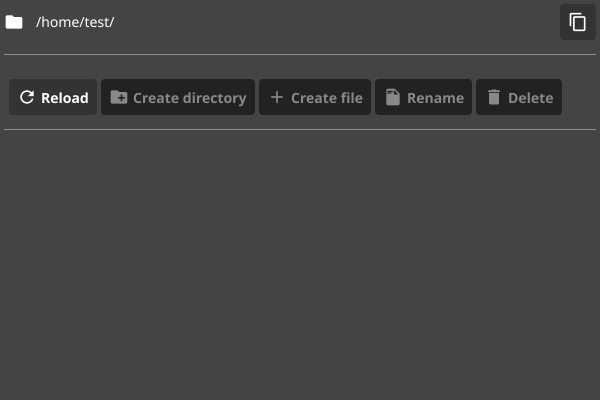
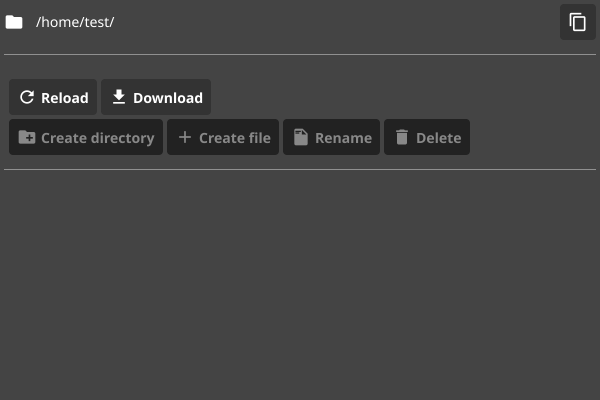
feat(download): download a directory (#126)

Changed region(s): [[0.0, 0.18, 0.96, 0.39]]

diff --git a/internal/ui/views/widget/directory_details.go b/internal/ui/views/widget/directory_details.go
@@ -29,12 +29,13 @@ type DirectoryDetails struct {
 	pathLabel        *widget.Label
 	renameErrContent *renameFailedPanel
 
-	toolbar            *widget.Toolbar
+	toolbar            *fyne.Container
 	newDirectoryAction *ToolbarButton
 	createFileAction   *ToolbarButton
 	renameAction       *ToolbarButton
 	reloadAction       *ToolbarButton
 	deleteAction       *ToolbarButton
+	downloadAction     *ToolbarButton
 	loadingBar         *widget.ProgressBarInfinite
 
 	dropZone *DropZone
@@ -52,13 +53,13 @@ func NewDirectoryDetails(appCtx appcontext.AppContext) *DirectoryDetails {
 	createFileAction := NewToolbarButton("Create file", theme.ContentAddIcon(), func() {})
 	renameAction := NewToolbarButton("Rename", theme.FileTextIcon(), func() {})
 	deleteAction := NewToolbarButton("Delete", theme.DeleteIcon(), func() {})
-	toolbar := widget.NewToolbar(
-		reloadAction,
-		createDirAction,
-		createFileAction,
-		renameAction,
-		deleteAction,
+	downloadAction := NewToolbarButton("Download", theme.DownloadIcon(), func() {})
+
+	toolbar := container.NewVBox(
+		widget.NewToolbar(reloadAction, downloadAction),
+		widget.NewToolbar(createDirAction, createFileAction, renameAction, deleteAction),
 	)
+
 	loadingBar := widget.NewProgressBarInfinite()
 	loadingBar.Hide()
 
@@ -71,6 +72,7 @@ func NewDirectoryDetails(appCtx appcontext.AppContext) *DirectoryDetails {
 		renameAction:       renameAction,
 		reloadAction:       reloadAction,
 		deleteAction:       deleteAction,
+		downloadAction:     downloadAction,
 		loadingBar:         loadingBar,
 		renameErrContent:   newRenameFailedPanel(appCtx.Window()),
 		dropZone:           NewDropZone(dropZoneInitialText, appCtx.Window()),
@@ -158,6 +160,7 @@ func (w *DirectoryDetails) Select(dir *directory.Directory) {
 	w.renameAction.SetOnTapped(w.makeOnRename(vm, dir))
 	w.reloadAction.SetOnTapped(w.makeOnReload(vm, dir))
 	w.deleteAction.SetOnTapped(w.makeOnDelete(vm, dir))
+	w.downloadAction.SetOnTapped(w.makeOnDownload(vm, dir))
 
 	if dir.IsRoot() {
 		w.renameAction.Disable()
@@ -283,6 +286,17 @@ func (w *DirectoryDetails) makeOnUpload(vm viewmodel.ExplorerViewModel, dir *dir
 
 		selectDialog.SetLocation(vm.LastUploadLocation())
 		selectDialog.Show()
+	}
+}
+
+func (w *DirectoryDetails) makeOnDownload(vm viewmodel.ExplorerViewModel, dir *directory.Directory) func() {
+	return func() {
+		d := dialog.NewFolderOpen(func(uri fyne.ListableURI, err error) {
+			vm.DownloadDirectory(dir, uri.Path())
+		}, w.appCtx.Window())
+		d.SetConfirmText("Select")
+		d.SetTitleText(fmt.Sprintf("Select where to download '%s'", dir.Name()))
+		d.Show()
 	}
 }
 

diff --git a/internal/ui/viewmodel/explorer_viewmodel.go b/internal/ui/viewmodel/explorer_viewmodel.go
@@ -72,6 +72,8 @@ type ExplorerViewModel interface {
 	// DownloadFile downloads a file to the specified local destination
 	DownloadFile(f *directory.File, dest string)
 
+	DownloadDirectory(dir *directory.Directory, dest string)
+
 	PrepareUpload(uris []fyne.URI, dir *directory.Directory) error
 	DoUpload(localBasePath string, preview *directory.Preview, strategy directory.MaterializeStrategy)
 	UploadOne(localPath string, dir *directory.Directory, overwrite bool) error
@@ -150,10 +152,6 @@ func NewExplorerViewModel(
 		state:                  st,
 	}
 
-	if err := v.initializeTreeData(initialConnection); err != nil {
-		notifier.NotifyError(fmt.Errorf("error setting initial connection: %w", err))
-	}
-
 	st.Connection().Selected().AddListener(binding.NewDataListener(func() {
 		newSelected := u.SkipV(st.Connection().Selected().Get())
 		if newSelected == nil {
@@ -189,6 +187,8 @@ func NewExplorerViewModel(
 		On(event.Is(directory.UploadReadyType), v.handleUploadReady).
 		On(event.Is(directory.DeleteFailedType), v.handleDeleteDirectoryFailure).
 		On(event.Is(directory.DeleteSucceededType), v.handleDeleteDirectorySuccess).
+		On(event.Is(directory.DownloadSucceededType), v.handleDownloadSuccess).
+		On(event.Is(directory.DownloadFailedType), v.handleDownloadFailure).
 		ListenWithWorkers(3)
 
 	return v
@@ -346,6 +346,31 @@ func (v *explorerViewModelImpl) handleDownloadFileSuccess(evt event.Event) {
 
 func (v *explorerViewModelImpl) handleDownloadFileFailure(evt event.Event) {
 	pl := evt.Payload().(directory.DownloadFileFailed)
+	err := fmt.Errorf("error downloading file: %w", pl.Err)
+	v.notifier.NotifyError(err)
+	u.Skip(v.errorMessage.Set(err.Error()))
+}
+
+func (v *explorerViewModelImpl) DownloadDirectory(dir *directory.Directory, destParent string) {
+	v.bus.Publish(event.New(directory.DownloadTriggered{
+		Directory:      dir,
+		DestParentPath: destParent,
+	}))
+}
+
+func (v *explorerViewModelImpl) handleDownloadSuccess(evt event.Event) {
+	pl := evt.Payload().(directory.DownloadSucceeded)
+	if err := pl.Directory.Notify(evt); err != nil {
+		v.notifier.NotifyError(err)
+		u.Skip(v.errorMessage.Set(err.Error()))
+		return
+	}
+	u.Skip(v.infoMessage.Set(
+		fmt.Sprintf("Directory %s downloaded successfully", pl.Directory.Name())))
+}
+
+func (v *explorerViewModelImpl) handleDownloadFailure(evt event.Event) {
+	pl := evt.Payload().(directory.DownloadFailed)
 	err := fmt.Errorf("error downloading file: %w", pl.Err)
 	v.notifier.NotifyError(err)
 	u.Skip(v.errorMessage.Set(err.Error()))

diff --git a/internal/infrastructure/s3/handle_download.go b/internal/infrastructure/s3/handle_download.go
@@ -1,8 +1,10 @@
 package s3
 
 import (
+	"errors"
 	"fmt"
 	"os"
+	"path/filepath"
 
 	"github.com/thomas-marquis/it-happened/event"
 	"github.com/thomas-marquis/s3-box/internal/domain/directory"
@@ -37,4 +39,51 @@ func (h *EventHandler) handleDownloadFile(e event.Event) {
 	}
 
 	h.bus.Publish(e.NewFollowup(directory.DownloadFileSucceeded{File: pl.File}))
+}
+
+func (h *EventHandler) handleDownload(e event.Event) {
+	ctx := e.Context()
+	pl := e.Payload().(directory.DownloadTriggered)
+	dir := pl.Directory
+	destParent := pl.DestParentPath
+
+	handleError := func(err error) {
+		h.notifier.NotifyError(fmt.Errorf("failed downloading directory: %w", err))
+		h.bus.Publish(e.NewFollowup(directory.DownloadFailed{Directory: dir, Err: err}))
+	}
+
+	fi, err := os.Stat(destParent)
+	if err != nil {
+		handleError(fmt.Errorf("failed to stat destination directory: %w", err))
+		return
+	}
+	if !fi.IsDir() {
+		handleError(errors.New("destination must be a directory"))
+		return
+	}
+
+	destPath := filepath.Join(pl.DestParentPath, dir.Name())
+	fi, err = os.Stat(destPath)
+	if err == nil && fi.IsDir() {
+		handleError(fmt.Errorf("destination directory already exists"))
+		return
+	}
+
+	if err := os.MkdirAll(destPath, 0755); err != nil {
+		handleError(fmt.Errorf("failed to create destination directory: %w", err))
+		return
+	}
+
+	client, err := h.clientFactory.Get(ctx, dir.ConnectionID())
+	if err != nil {
+		handleError(err)
+		return
+	}
+
+	if err := client.DownloadDirectory(ctx, mapPathToSearchKey(dir.Path()), destPath); err != nil {
+		handleError(fmt.Errorf("failed downloading directory: %w", err))
+		return
+	}
+
+	h.bus.Publish(e.NewFollowup(directory.DownloadSucceeded{Directory: dir}))
 }

diff --git a/internal/infrastructure/s3/s3client/client.go b/internal/infrastructure/s3/s3client/client.go
@@ -21,6 +21,7 @@ type BaseAPI interface {
 	ListObjects(ctx context.Context, prefix string, recursive bool, opts ...Option) (ListObjectsResult, error)
 	ListObjectsWithCallback(ctx context.Context, prefix string, recursive bool, callback func(page *s3.ListObjectsV2Output) error, opts ...Option) error
 	Download(ctx context.Context, key string, writer io.WriterAt, opts ...Option) error
+	DownloadDirectory(ctx context.Context, keyPrefix, dest string, opts ...Option) error
 	Upload(ctx context.Context, key string, body io.Reader, opts ...Option) error
 	PutObjectTagging(ctx context.Context, key string, tags []s3types.Tag, opts ...Option) (*s3.PutObjectTaggingOutput, error)
 	GetObjectTagging(ctx context.Context, key string, opts ...Option) (*s3.GetObjectTaggingOutput, error)
@@ -147,6 +148,10 @@ func (c *clientImpl) GetObjectTagging(ctx context.Context, key string, opts ...O
 }
 func (c *clientImpl) PutObjectTagging(ctx context.Context, key string, tags []s3types.Tag, opts ...Option) (*s3.PutObjectTaggingOutput, error) {
 	return c.api.PutObjectTagging(ctx, key, tags, opts...)
+}
+
+func (c *clientImpl) DownloadDirectory(ctx context.Context, keyPrefix, dest string, opts ...Option) error {
+	return c.api.DownloadDirectory(ctx, keyPrefix, dest, opts...)
 }
 
 type Option func(any)

diff --git a/mocks/viewmodel/explorer_viewmodel.go b/mocks/viewmodel/explorer_viewmodel.go
@@ -129,6 +129,18 @@ func (mr *MockExplorerViewModelMockRecorder) DoUpload(localBasePath, preview, st
 	return mr.mock.ctrl.RecordCallWithMethodType(mr.mock, "DoUpload", reflect.TypeOf((*MockExplorerViewModel)(nil).DoUpload), localBasePath, preview, strategy)
 }
 
+// DownloadDirectory mocks base method.
+func (m *MockExplorerViewModel) DownloadDirectory(dir *directory.Directory, dest string) {
+	m.ctrl.T.Helper()
+	m.ctrl.Call(m, "DownloadDirectory", dir, dest)
+}
+
+// DownloadDirectory indicates an expected call of DownloadDirectory.
+func (mr *MockExplorerViewModelMockRecorder) DownloadDirectory(dir, dest any) *gomock.Call {
+	mr.mock.ctrl.T.Helper()
+	return mr.mock.ctrl.RecordCallWithMethodType(mr.mock, "DownloadDirectory", reflect.TypeOf((*MockExplorerViewModel)(nil).DownloadDirectory), dir, dest)
+}
+
 // DownloadFile mocks base method.
 func (m *MockExplorerViewModel) DownloadFile(f *directory.File, dest string) {
 	m.ctrl.T.Helper()

diff --git a/internal/domain/directory/event_directory.go b/internal/domain/directory/event_directory.go
@@ -219,3 +219,35 @@ type UploadSucceeded LoadSucceeded
 func (e UploadSucceeded) EventType() event.Type {
 	return UploadSucceededType
 }
+
+const (
+	DownloadTriggeredType event.Type = "event.directory.download.triggered"
+	DownloadSucceededType event.Type = "event.directory.download.succeeded"
+	DownloadFailedType    event.Type = "event.directory.download.failed"
+)
+
+type DownloadTriggered struct {
+	Directory      *Directory
+	DestParentPath string
+}
+
+func (DownloadTriggered) EventType() event.Type {
+	return DownloadTriggeredType
+}
+
+type DownloadSucceeded struct {
+	Directory *Directory
+}
+
+func (DownloadSucceeded) EventType() event.Type {
+	return DownloadSucceededType
+}
+
+type DownloadFailed struct {
+	Directory *Directory
+	Err       error
+}
+
+func (DownloadFailed) EventType() event.Type {
+	return DownloadFailedType
+}

diff --git a/internal/infrastructure/s3/s3client/base.go b/internal/infrastructure/s3/s3client/base.go
@@ -133,6 +133,21 @@ func (c *baseApiImpl) Download(ctx context.Context, key string, writer io.Writer
 	return c.handleS3SdkError(err, key)
 }
 
+func (c *baseApiImpl) DownloadDirectory(ctx context.Context, keyPrefix, dest string, opts ...Option) error {
+	manager := transfermanager.New(c.client)
+	in := &transfermanager.DownloadDirectoryInput{
+		Bucket:      aws.String(c.bucket),
+		Destination: aws.String(dest),
+		KeyPrefix:   aws.String(keyPrefix),
+	}
+	for _, opt := range opts {
+		opt(in)
+	}
+
+	_, err := manager.DownloadDirectory(ctx, in)
+	return c.handleS3SdkError(err, keyPrefix)
+}
+
 func (c *baseApiImpl) GetObjectTagging(ctx context.Context, key string, opts ...Option) (*s3.GetObjectTaggingOutput, error) {
 	in := &s3.GetObjectTaggingInput{
 		Bucket: aws.String(c.bucket),

diff --git a/internal/infrastructure/s3/handler.go b/internal/infrastructure/s3/handler.go
@@ -58,6 +58,7 @@ func (h *EventHandler) Listen() {
 		On(event.Is(directory.RenameFileTriggeredType), h.handleRenameFile).
 		On(event.Is(directory.RenameTriggeredType), h.handleRenameRequest).
 		On(event.Is(directory.RenameRecoveryTriggeredType), h.handleRenameRecovery).
+		On(event.Is(directory.DownloadTriggeredType), h.handleDownload).
 		On(event.IsOneOf(
 			connection_deck.RemoveConnectionSucceededType,
 			connection_deck.UpdateConnectionSucceededType,
